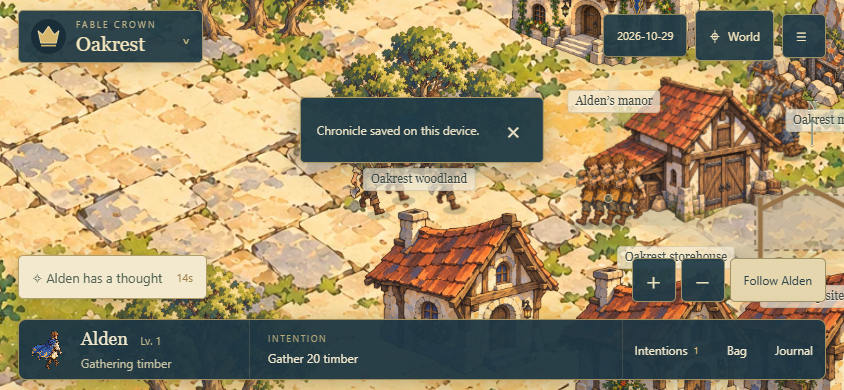
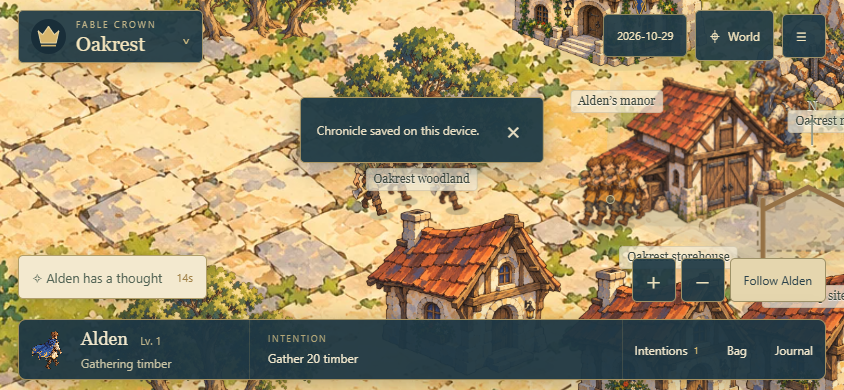
Record verified corrected-art Pages release [skip ci]

diff --git a/docs/PROGRESS.md b/docs/PROGRESS.md
@@ -55,3 +55,9 @@ Confirmed release hold: workflow 40816403401 is cancelled, with Pages configurat
 User approved the replacement gameplay proof with a request for slightly simpler treatment. Rebuilt all 23 assets against that visual reference, retaining original v1 PNGs for audit and preserving v2 PNGs plus exact prompts. Current artwork: 9.1 MiB. Added soft overlapping terrain joins, irregular water/road washes, measured cutout base anchors, calmer labels and collision-aware woodland scenery. Gatherers use separate reachable work spots. A hauling transaction could leave remaining=0 at a save boundary; fixed and covered by restoring every tick across 150 ticks.
 
 Final local checks: strict production typecheck/build; 42 unit cases; four complete browser scenarios plus the added full thought-to-workshop/forge scenario pass. Full five-scenario suite will repeat in CI. Current usage: 91% used, about 9% remaining; no reset redemption, purchases or runtime inference API. Corrected live deployment pending push/verification.
+
+### Live release verified
+
+Corrected code c0b57d1 passed all CI gates and deployed: https://github.com/cudldev/Fable-Crown/actions/runs/40818940478 . Actual public URL https://cudldev.github.io/Fable-Crown/ was then tested directly: all five browser scenarios passed, including queue/ground controls, physical travel, whole-world offline exploration, invalid import protection, desktop/mobile layouts, thought choice, completed workshop and smithing. Public manifest exactly matches local version de3bc89177bb: 23 artwork files, 9,566,736 bytes. All 42 simulation/navigation cases and strict build/path/PWA validation passed. Public-run screenshots are saved in docs/screenshots/world-*.png.
+
+The approved style correction is integrated; this verified expanded playable slice is complete. Stop here. Detailed social/daily-needs systems, combat, economy expansion, optional local LLM and physical-device performance benchmarks remain deferred as planned. Latest usage check: about 9% weekly allowance remaining; no reset or credit redemption.

diff --git a/docs/ART_AUDIT.md b/docs/ART_AUDIT.md
@@ -27,3 +27,5 @@ User response to the corrected sample: “Yes, but simplify it tiny bit further.
 Renderer now anchors cutouts using measured alpha bounds/feet without altering source pixels; terrain overlaps with soft edge masks, paths and water use quieter paint-like shapes, and labels avoid crowding. Ten decorative woodland groups share actual navigation blockers. NPCs have separate reachable spots around gathering sites instead of exactly overlapping at one point. Fixed a zero-remaining-tick save boundary discovered while checking loading/hauling.
 
 42 simulation/navigation tests pass; five browser scenarios pass across the final four-scenario run and the added full-workshop scenario. The exact Pages subpath, all 23 asset paths, 9.1 MiB measured bundle and offline download/reload pass. The new fifth browser case exercises the thought trade choice, autonomous construction, smith unlock, forging and finished painted workshop. The initial rejected release stayed undeployed; the corrected release is now ready for CI/live verification.
+
+Corrected release c0b57d1 is live. CI run 40818940478 succeeded; all five acceptance scenarios also passed against the actual public site. Public art manifest de3bc89177bb matches all 23 corrected files. Current composed public-build screenshots are in docs/screenshots/world-*.png.
